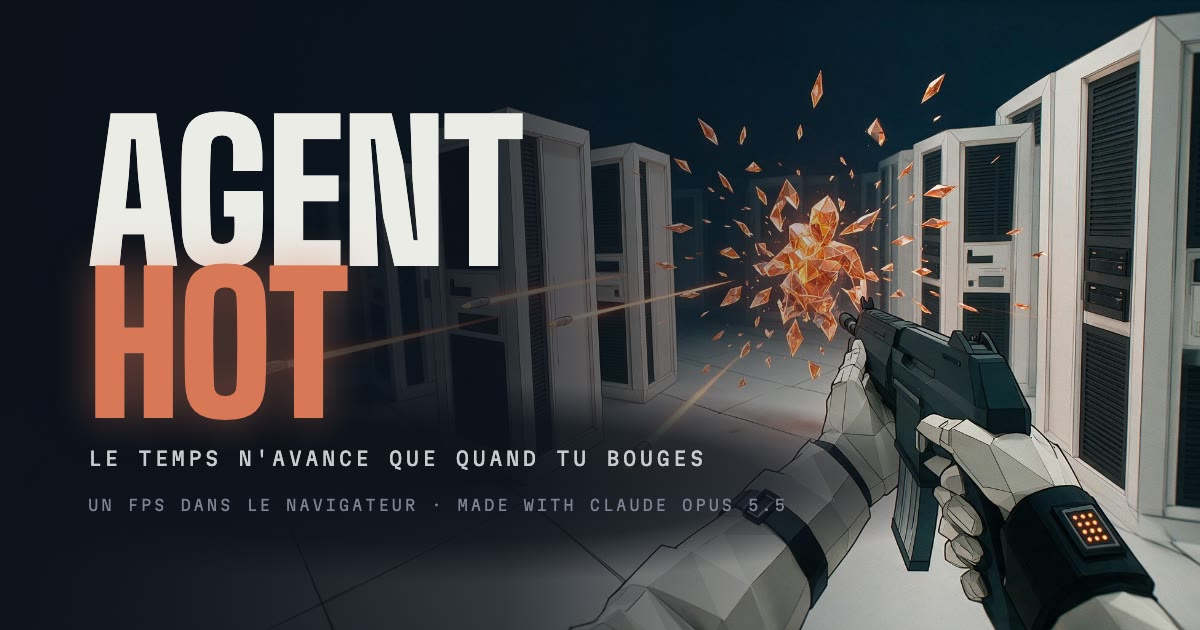
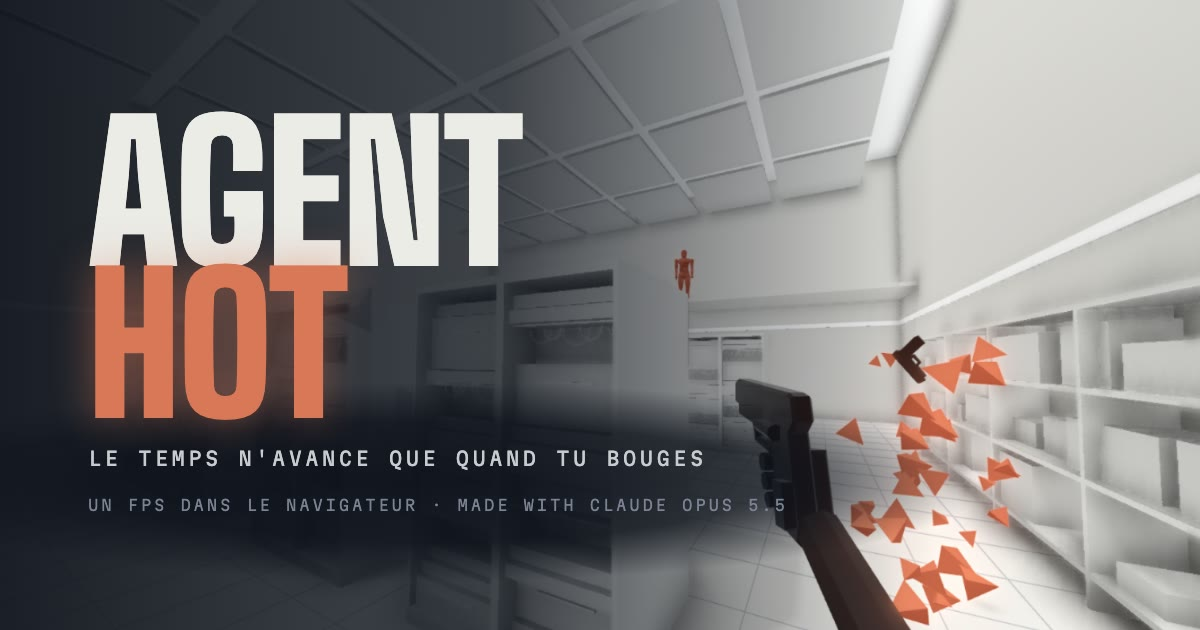
assets(images): room 1 thumbnail and share image made from captures of the new room look
The generated sources (assets/images/room-01.jpg, og-background.jpg) stay: the ledger points to them.

Claude-Session: https://claude.ai/code/session_01FBudAz15oR5MyMSDxBx3ih

diff --git a/scripts/og/og.html b/scripts/og/og.html
@@ -1,5 +1,5 @@
 <!doctype html>
-<!-- Image de partage (spec 4.7) : fond Seedream, logo et texte posés avec nos polices. Capturée à 1200 × 630 par
+<!-- Image de partage (spec 4.7) : fond (une capture du jeu depuis le 2026-09-30, une image Seedream avant), logo et texte posés avec nos polices. Capturée à 1200 × 630 par
      scripts/build-og.sh (Chrome sans écran). Fond : ?bg=<chemin relatif à cette page>, sinon le vide seul. -->
 <html lang="fr">
   <head>
